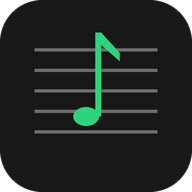
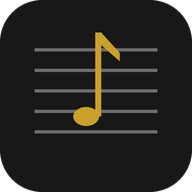
Mustard color scheme and paste images as sheet music
Claude-Session: https://claude.ai/code/session_01KGm33ubpdKUQ8FuBcBQ3nz

Changed region(s): [[0.375, 0.1562, 0.625, 0.6562]]

diff --git a/index.html b/index.html
@@ -20,7 +20,7 @@
 /* Layout: dark listening-room shell. Home is a track-list of projects; a project gives the sheet music the stage, with a slim rail (video, transport, notes/marks/takes) that can be hidden. */
 :root{
   --base:#000000; --panel:#121212; --raise:#1C1C1C; --hover:#2A2A2A; --line:#2A2A2A;
-  --ink:#FFFFFF; --muted:#A3A3A3; --dim:#6E6E6E; --accent:#2BD47D; --accent-ink:#04140B; --rec:#F0473C; --mark:rgba(43,212,125,.28);
+  --ink:#FFFFFF; --muted:#A3A3A3; --dim:#6E6E6E; --accent:#C9A12A; --accent-ink:#1A1404; --rec:#F0473C; --mark:rgba(201,161,42,.32);
   --f:"Figtree", system-ui, -apple-system, "Segoe UI", sans-serif;
   --f-mono:"JetBrains Mono", ui-monospace, "SF Mono", Consolas, monospace;
   --r:10px; --r-sm:6px;
@@ -66,7 +66,7 @@ label.field{display:grid;gap:6px;font-weight:700;font-size:13px}
 .label{font-size:12px;font-weight:700;color:var(--muted)}
 
 /* ---------- Home ---------- */
-#home{min-height:100%;background:linear-gradient(180deg,#1d2a22 0,var(--panel) 260px) var(--panel)}
+#home{min-height:100%;background:linear-gradient(180deg,#2e2712 0,var(--panel) 260px) var(--panel)}
 .wrap{max-width:1100px;margin:0 auto;padding-left:max(20px,env(safe-area-inset-left,0px));padding-right:max(20px,env(safe-area-inset-right,0px))}
 .home-top{display:flex;align-items:center;gap:12px;padding-block:20px}
 .logo{display:flex;align-items:center;gap:10px;font-weight:700;font-size:16px;margin-right:auto}
@@ -230,6 +230,8 @@ dialog::backdrop{background:rgba(0,0,0,.7)}
 .err{color:var(--rec);font-size:13px;margin:0}
 .upload{display:flex;align-items:center;justify-content:center;gap:10px;border-radius:var(--r);padding:22px;cursor:pointer;text-align:center;color:var(--muted);background:var(--raise)}
 .upload:hover{color:var(--ink);background:var(--hover)}
+.pastebox{display:flex;align-items:center;justify-content:center;gap:10px;min-height:56px;border-radius:var(--r);padding:12px;text-align:center;color:var(--muted);border:1.5px dashed var(--hover);outline:none;caret-color:transparent;font-size:13px}
+.pastebox:focus{border-color:var(--accent);color:var(--ink)}
 .divider{display:flex;align-items:center;gap:10px;color:var(--dim);font-size:12px}
 .divider::before,.divider::after{content:"";flex:1;height:1px;background:var(--line)}
 
@@ -282,6 +284,7 @@ input[type=range]{accent-color:var(--accent);width:100%}
   <symbol id="i-open" viewBox="0 0 24 24"><path d="M14 4h6v6M20 4l-9 9M18 14v5a1 1 0 01-1 1H5a1 1 0 01-1-1V7a1 1 0 011-1h5"/></symbol>
   <symbol id="i-metro" viewBox="0 0 24 24"><path d="M9 3h6l4 18H5L9 3zM12 16l5-9M8 16h8"/></symbol>
   <symbol id="i-search" viewBox="0 0 24 24"><circle cx="11" cy="11" r="7"/><path d="M20 20l-4-4"/></symbol>
+  <symbol id="i-paste" viewBox="0 0 24 24"><rect x="6" y="4" width="12" height="17" rx="2"/><path d="M9 4h6v3H9z"/></symbol>
   <symbol id="i-down" viewBox="0 0 24 24"><path d="M12 4v12M6 10l6 6 6-6M5 20h14"/></symbol>
   <symbol id="i-upload" viewBox="0 0 24 24"><path d="M12 16V4M6 10l6-6 6 6M5 20h14"/></symbol>
 </svg>
@@ -424,6 +427,7 @@ input[type=range]{accent-color:var(--accent);width:100%}
           <button class="btn icon sm" id="zoomFit" aria-label="Fit width"><svg class="i"><use href="#i-fit"/></svg></button>
           <button class="btn icon sm" id="zoomIn" aria-label="Zoom in"><svg class="i"><use href="#i-plus"/></svg></button>
         </div>
+        <button class="btn icon sm" id="pasteSheetBtn" aria-label="Paste copied image as sheet music" title="Paste copied image"><svg class="i"><use href="#i-paste"/></svg></button>
         <button class="btn icon sm" id="addSheetBtn" aria-label="Add sheet music" title="Add sheet music"><svg class="i"><use href="#i-plus"/></svg></button>
       </div>
       <div class="sheet-view" id="sheetView"></div>
@@ -469,6 +473,10 @@ input[type=range]{accent-color:var(--accent);width:100%}
       </section>
       <section data-step="3" hidden>
         <label class="upload" for="wFiles"><svg class="i"><use href="#i-upload"/></svg>Upload PDFs or images of the tab or score</label>
+        <div class="row">
+          <button class="btn sm outline" id="wPasteBtn"><svg class="i"><use href="#i-paste"/></svg>Paste copied image</button>
+          <div class="pastebox" id="wPasteBox" contenteditable="true" role="textbox" aria-label="Paste an image here" style="flex:1">or long-press here and tap Paste</div>
+        </div>
         <input type="file" id="wFiles" accept="application/pdf,image/*" multiple hidden>
         <div class="divider">or link to it</div>
         <input type="url" id="wLinkUrl" placeholder="https://… (Songsterr, Ultimate Guitar, a PDF link)" aria-label="Link to sheet music">
@@ -964,7 +972,10 @@ async function renderSheet(zoomOnly) {
   const token = ++S.renderToken;
   $$('.sheet-tools button').forEach((b) => (b.disabled = !s || s.kind === 'link'));
   if (!s) {
-    view.innerHTML = `<div class="view-empty"><p>No tab or sheet music yet.<br>Upload a PDF or image, or link to it.</p><button class="btn primary" onclick="openWizard(S.p,3)"><svg class="i"><use href="#i-plus"/></svg>Add sheet music</button></div>`;
+    view.innerHTML = `<div class="view-empty"><p>No tab or sheet music yet.<br>Copy an image of it and paste it here, or upload a PDF, image or link.</p>
+      <div class="row" style="justify-content:center;flex-wrap:wrap"><button class="btn primary" onclick="pasteIntoProject()"><svg class="i"><use href="#i-paste"/></svg>Paste image</button>
+      <button class="btn outline" onclick="openWizard(S.p,3)"><svg class="i"><use href="#i-plus"/></svg>Add</button></div>
+      <div class="pastebox" contenteditable="true" role="textbox" aria-label="Paste an image here" style="width:min(320px,100%)">or long-press here and tap Paste</div></div>`;
     return;
   }
   if (s.kind === 'link') {
@@ -1353,15 +1364,74 @@ $('#wVidAdd').onclick = () => addWVid(false);
 $('#wVidUrl').onkeydown = (e) => { if (e.key === 'Enter') addWVid(false); };
 $('#wVidList').onclick = (e) => { const b = e.target.closest('[data-rm]'); if (!b) return; W.d.videos = W.d.videos.filter((v) => v.id !== b.dataset.rm); renderWVids(); };
 
-$('#wFiles').onchange = (e) => {
-  for (const f of e.target.files) {
+function wizAddFiles(files) {
+  for (const f of files) {
     const kind = f.type === 'application/pdf' || /\.pdf$/i.test(f.name) ? 'pdf' : f.type.startsWith('image/') ? 'image' : null;
     if (!kind) { toast(f.name + ' isn’t a PDF or image'); continue; }
     const s = { id: uid(), kind, name: f.name, label: f.name.replace(/\.[^.]+$/, ''), blobId: uid() };
     W.files.set(s.blobId, f); W.d.sheets.push(s);
   }
-  e.target.value = ''; renderWSheets();
+  renderWSheets();
+}
+$('#wFiles').onchange = (e) => { wizAddFiles(e.target.files); e.target.value = ''; };
+
+/* ---------------- Pasting copied images ---------------- */
+let pasteN = 0;
+function pastedName(type) {
+  pasteN++;
+  const ext = (type.split('/')[1] || 'png').replace('jpeg', 'jpg');
+  return `Pasted image ${dayFmt.format(new Date())} ${new Date().toLocaleTimeString([], { hour: 'numeric', minute: '2-digit' })}${pasteN > 1 ? ' (' + pasteN + ')' : ''}.${ext}`;
+}
+function imagesFromEvent(e) {
+  const out = [];
+  for (const it of (e.clipboardData && e.clipboardData.items) || []) {
+    if (it.kind === 'file' && it.type.startsWith('image/')) { const f = it.getAsFile(); if (f) out.push(new File([f], pastedName(f.type), { type: f.type })); }
+  }
+  return out;
+}
+async function imagesFromClipboard() {
+  if (!navigator.clipboard || !navigator.clipboard.read) throw new Error('unsupported');
+  const out = [];
+  for (const item of await navigator.clipboard.read()) {
+    const type = item.types.find((t) => t.startsWith('image/'));
+    if (type) { const b = await item.getType(type); out.push(new File([b], pastedName(type), { type })); }
+  }
+  return out;
+}
+const PASTE_HELP = 'No image on the clipboard. Copy an image first (long-press it → Copy, or take a screenshot and tap Copy).';
+async function pasteIntoProject(files) {
+  if (!S.p) return;
+  if (!files) {
+    try { files = await imagesFromClipboard(); }
+    catch { toast('Long-press the box and tap Paste, or press Ctrl+V'); const b = document.querySelector('#sheetView .pastebox'); if (b) b.focus(); return; }
+  }
+  if (!files.length) { toast(PASTE_HELP); return; }
+  for (const f of files) {
+    const s = { id: uid(), kind: 'image', name: f.name, label: f.name.replace(/\.[^.]+$/, ''), blobId: uid() };
+    await putFile(s.blobId, f); S.p.sheets.push(s);
+  }
+  S.sIdx = S.p.sheets.length - 1; S.p.ui.s = S.sIdx;
+  await saveProject(S.p); askPersist(); renderSheetPanel();
+  toast(files.length > 1 ? `Added ${files.length} images` : 'Image added to sheet music');
+}
+$('#pasteSheetBtn').onclick = () => pasteIntoProject();
+$('#wPasteBtn').onclick = async () => {
+  try { const f = await imagesFromClipboard(); if (!f.length) { toast(PASTE_HELP); return; } wizAddFiles(f); }
+  catch { toast('Long-press the dashed box and tap Paste, or press Ctrl+V'); $('#wPasteBox').focus(); }
 };
+// Paste anywhere: into the wizard on the sheet-music step, or straight into an open project.
+document.addEventListener('paste', (e) => {
+  const files = imagesFromEvent(e);
+  const inBox = e.target.closest && e.target.closest('.pastebox');
+  if (inBox) e.preventDefault();
+  if (!files.length) { if (inBox) toast(PASTE_HELP); return; }
+  if ($('#wizard').open) { if (W.step === 3 || inBox) { e.preventDefault(); wizAddFiles(files); } return; }
+  if (document.querySelector('dialog[open]')) return;
+  const typing = /INPUT|TEXTAREA/.test(e.target.tagName) && !inBox;
+  if (S.p && !typing) { e.preventDefault(); pasteIntoProject(files); }
+});
+// Keep the paste boxes empty (they only exist to receive a paste).
+document.addEventListener('input', (e) => { if (e.target.classList && e.target.classList.contains('pastebox')) e.target.textContent = 'or long-press here and tap Paste'; });
 function addWLink() {
   let url = $('#wLinkUrl').value.trim(); if (!url) return;
   if (!/^https?:\/\//i.test(url)) url = 'https://' + url;

diff --git a/sw.js b/sw.js
@@ -1,5 +1,5 @@
 // Woodshed service worker: app shell offline, libraries and fonts cached on first use.
-const VERSION = 'woodshed-v2';
+const VERSION = 'woodshed-v3';
 const SHELL = [
   './',
   './index.html',

diff --git a/README.md b/README.md
@@ -34,6 +34,7 @@ On iPad, launch from the home-screen icon: Apple can clear storage for websites 
 - Tab sites like Ultimate Guitar and Songsterr usually block being shown inside another app, so links open in a new tab. Saving the page as a PDF and uploading it gives the best side-by-side experience.
 - PDFs render with PDF.js, loaded the first time you open a PDF and cached for offline use.
 - Playback speed is saved per video, and your last-used speed becomes the default for new videos.
+- **Pasting images:** copy a picture of tab or sheet music (long-press it → Copy, or take a screenshot and tap Copy), then tap the paste button in the sheet panel, or press Ctrl+V on Windows. JPG and PNG both work; PNG keeps thin tab lines sharper.
 - Typing `[1:23]` in a note (or tapping **Insert video time**) makes a tag that jumps the video to that moment.
 - Tap the timer to pause it. Practice time is added to the project's total.
 - The side panel (video, notes, bookmarks, takes) can be hidden with the panel button at the top right so the sheet music fills the screen. The video keeps playing while it's hidden.
